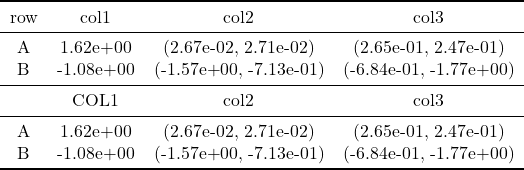
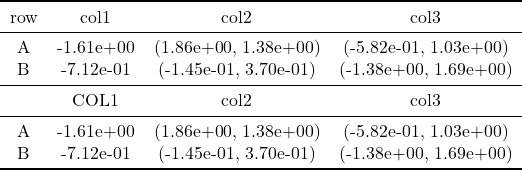
build based on b4de2d7

diff --git a/dev/index.html b/dev/index.html
@@ -1,2 +1,2 @@
 <!DOCTYPE html>
-<html lang="en"><head><meta charset="UTF-8"/><meta name="viewport" content="width=device-width, initial-scale=1.0"/><title>LaTeXTables.jl Documentation · LaTeXTables.jl Documentation</title><script data-outdated-warner src="assets/warner.js"></script><link href="https://cdnjs.cloudflare.com/ajax/libs/lato-font/3.0.0/css/lato-font.min.css" rel="stylesheet" type="text/css"/><link href="https://cdnjs.cloudflare.com/ajax/libs/juliamono/0.045/juliamono.min.css" rel="stylesheet" type="text/css"/><link href="https://cdnjs.cloudflare.com/ajax/libs/font-awesome/5.15.4/css/fontawesome.min.css" rel="stylesheet" type="text/css"/><link href="https://cdnjs.cloudflare.com/ajax/libs/font-awesome/5.15.4/css/solid.min.css" rel="stylesheet" type="text/css"/><link href="https://cdnjs.cloudflare.com/ajax/libs/font-awesome/5.15.4/css/brands.min.css" rel="stylesheet" type="text/css"/><link href="https://cdnjs.cloudflare.com/ajax/libs/KaTeX/0.13.24/katex.min.css" rel="stylesheet" type="text/css"/><script>documenterBaseURL="."</script><script src="https://cdnjs.cloudflare.com/ajax/libs/require.js/2.3.6/require.min.js" data-main="assets/documenter.js"></script><script src="siteinfo.js"></script><script src="../versions.js"></script><link class="docs-theme-link" rel="stylesheet" type="text/css" href="assets/themes/documenter-dark.css" data-theme-name="documenter-dark" data-theme-primary-dark/><link class="docs-theme-link" rel="stylesheet" type="text/css" href="assets/themes/documenter-light.css" data-theme-name="documenter-light" data-theme-primary/><script src="assets/themeswap.js"></script></head><body><div id="documenter"><nav class="docs-sidebar"><div class="docs-package-name"><span class="docs-autofit"><a href>LaTeXTables.jl Documentation</a></span></div><form class="docs-search" action="search/"><input class="docs-search-query" id="documenter-search-query" name="q" type="text" placeholder="Search docs"/></form><ul class="docs-menu"><li class="is-active"><a class="tocitem" href>LaTeXTables.jl Documentation</a><ul class="internal"><li><a class="tocitem" href="#Related-Packages"><span>Related Packages</span></a></li></ul></li><li><a class="tocitem" href="api/">API</a></li><li><a class="tocitem" href="example/">Examples</a></li></ul><div class="docs-version-selector field has-addons"><div class="control"><span class="docs-label button is-static is-size-7">Version</span></div><div class="docs-selector control is-expanded"><div class="select is-fullwidth is-size-7"><select id="documenter-version-selector"></select></div></div></div></nav><div class="docs-main"><header class="docs-navbar"><nav class="breadcrumb"><ul class="is-hidden-mobile"><li class="is-active"><a href>LaTeXTables.jl Documentation</a></li></ul><ul class="is-hidden-tablet"><li class="is-active"><a href>LaTeXTables.jl Documentation</a></li></ul></nav><div class="docs-right"><a class="docs-edit-link" href="https://github.com/szcf-weiya/LaTeXTables.jl/blob/master/docs/src/index.md" title="Edit on GitHub"><span class="docs-icon fab"></span><span class="docs-label is-hidden-touch">Edit on GitHub</span></a><a class="docs-settings-button fas fa-cog" id="documenter-settings-button" href="#" title="Settings"></a><a class="docs-sidebar-button fa fa-bars is-hidden-desktop" id="documenter-sidebar-button" href="#"></a></div></header><article class="content" id="documenter-page"><h1 id="LaTeXTables.jl-Documentation"><a class="docs-heading-anchor" href="#LaTeXTables.jl-Documentation">LaTeXTables.jl Documentation</a><a id="LaTeXTables.jl-Documentation-1"></a><a class="docs-heading-anchor-permalink" href="#LaTeXTables.jl-Documentation" title="Permalink"></a></h1><p>LaTeXTables.jl is a Julia package that coverts (complex) tables into LaTeX code.</p><h2 id="Related-Packages"><a class="docs-heading-anchor" href="#Related-Packages">Related Packages</a><a id="Related-Packages-1"></a><a class="docs-heading-anchor-permalink" href="#Related-Packages" title="Permalink"></a></h2><ul><li><a href="https://github.com/scheinerman/LatexPrint.jl">https://github.com/scheinerman/LatexPrint.jl</a>: only support basic data structure, such as 1d or 2d arrays</li><li><a href="https://github.com/ronisbr/PrettyTables.jl">https://github.com/ronisbr/PrettyTables.jl</a>: only support simple tables, i.e., one level row and one level column</li></ul></article><nav class="docs-footer"><a class="docs-footer-nextpage" href="api/">API »</a><div class="flexbox-break"></div><p class="footer-message">Powered by <a href="https://github.com/JuliaDocs/Documenter.jl">Documenter.jl</a> and the <a href="https://julialang.org/">Julia Programming Language</a>.</p></nav></div><div class="modal" id="documenter-settings"><div class="modal-background"></div><div class="modal-card"><header class="modal-card-head"><p class="modal-card-title">Settings</p><button class="delete"></button></header><section class="modal-card-body"><p><label class="label">Theme</label><div class="select"><select id="documenter-themepicker"><option value="documenter-light">documenter-light</option><option value="documenter-dark">documenter-dark</option></select></div></p><hr/><p>This document was generated with <a href="https://github.com/JuliaDocs/Documenter.jl">Documenter.jl</a> version 0.27.23 on <span class="colophon-date" title="Tuesday 15 November 2022 17:33">Tuesday 15 November 2022</span>. Using Julia version 1.7.3.</p></section><footer class="modal-card-foot"></footer></div></div></div></body></html>
+<html lang="en"><head><meta charset="UTF-8"/><meta name="viewport" content="width=device-width, initial-scale=1.0"/><title>LaTeXTables.jl Documentation · LaTeXTables.jl Documentation</title><script data-outdated-warner src="assets/warner.js"></script><link href="https://cdnjs.cloudflare.com/ajax/libs/lato-font/3.0.0/css/lato-font.min.css" rel="stylesheet" type="text/css"/><link href="https://cdnjs.cloudflare.com/ajax/libs/juliamono/0.045/juliamono.min.css" rel="stylesheet" type="text/css"/><link href="https://cdnjs.cloudflare.com/ajax/libs/font-awesome/5.15.4/css/fontawesome.min.css" rel="stylesheet" type="text/css"/><link href="https://cdnjs.cloudflare.com/ajax/libs/font-awesome/5.15.4/css/solid.min.css" rel="stylesheet" type="text/css"/><link href="https://cdnjs.cloudflare.com/ajax/libs/font-awesome/5.15.4/css/brands.min.css" rel="stylesheet" type="text/css"/><link href="https://cdnjs.cloudflare.com/ajax/libs/KaTeX/0.13.24/katex.min.css" rel="stylesheet" type="text/css"/><script>documenterBaseURL="."</script><script src="https://cdnjs.cloudflare.com/ajax/libs/require.js/2.3.6/require.min.js" data-main="assets/documenter.js"></script><script src="siteinfo.js"></script><script src="../versions.js"></script><link class="docs-theme-link" rel="stylesheet" type="text/css" href="assets/themes/documenter-dark.css" data-theme-name="documenter-dark" data-theme-primary-dark/><link class="docs-theme-link" rel="stylesheet" type="text/css" href="assets/themes/documenter-light.css" data-theme-name="documenter-light" data-theme-primary/><script src="assets/themeswap.js"></script></head><body><div id="documenter"><nav class="docs-sidebar"><div class="docs-package-name"><span class="docs-autofit"><a href>LaTeXTables.jl Documentation</a></span></div><form class="docs-search" action="search/"><input class="docs-search-query" id="documenter-search-query" name="q" type="text" placeholder="Search docs"/></form><ul class="docs-menu"><li class="is-active"><a class="tocitem" href>LaTeXTables.jl Documentation</a><ul class="internal"><li><a class="tocitem" href="#Related-Packages"><span>Related Packages</span></a></li></ul></li><li><a class="tocitem" href="api/">API</a></li><li><a class="tocitem" href="example/">Examples</a></li></ul><div class="docs-version-selector field has-addons"><div class="control"><span class="docs-label button is-static is-size-7">Version</span></div><div class="docs-selector control is-expanded"><div class="select is-fullwidth is-size-7"><select id="documenter-version-selector"></select></div></div></div></nav><div class="docs-main"><header class="docs-navbar"><nav class="breadcrumb"><ul class="is-hidden-mobile"><li class="is-active"><a href>LaTeXTables.jl Documentation</a></li></ul><ul class="is-hidden-tablet"><li class="is-active"><a href>LaTeXTables.jl Documentation</a></li></ul></nav><div class="docs-right"><a class="docs-edit-link" href="https://github.com/szcf-weiya/LaTeXTables.jl/blob/master/docs/src/index.md" title="Edit on GitHub"><span class="docs-icon fab"></span><span class="docs-label is-hidden-touch">Edit on GitHub</span></a><a class="docs-settings-button fas fa-cog" id="documenter-settings-button" href="#" title="Settings"></a><a class="docs-sidebar-button fa fa-bars is-hidden-desktop" id="documenter-sidebar-button" href="#"></a></div></header><article class="content" id="documenter-page"><h1 id="LaTeXTables.jl-Documentation"><a class="docs-heading-anchor" href="#LaTeXTables.jl-Documentation">LaTeXTables.jl Documentation</a><a id="LaTeXTables.jl-Documentation-1"></a><a class="docs-heading-anchor-permalink" href="#LaTeXTables.jl-Documentation" title="Permalink"></a></h1><p>LaTeXTables.jl is a Julia package that coverts (complex) tables into LaTeX code.</p><h2 id="Related-Packages"><a class="docs-heading-anchor" href="#Related-Packages">Related Packages</a><a id="Related-Packages-1"></a><a class="docs-heading-anchor-permalink" href="#Related-Packages" title="Permalink"></a></h2><ul><li><a href="https://github.com/scheinerman/LatexPrint.jl">https://github.com/scheinerman/LatexPrint.jl</a>: only support basic data structure, such as 1d or 2d arrays</li><li><a href="https://github.com/ronisbr/PrettyTables.jl">https://github.com/ronisbr/PrettyTables.jl</a>: only support simple tables, i.e., one level row and one level column</li></ul></article><nav class="docs-footer"><a class="docs-footer-nextpage" href="api/">API »</a><div class="flexbox-break"></div><p class="footer-message">Powered by <a href="https://github.com/JuliaDocs/Documenter.jl">Documenter.jl</a> and the <a href="https://julialang.org/">Julia Programming Language</a>.</p></nav></div><div class="modal" id="documenter-settings"><div class="modal-background"></div><div class="modal-card"><header class="modal-card-head"><p class="modal-card-title">Settings</p><button class="delete"></button></header><section class="modal-card-body"><p><label class="label">Theme</label><div class="select"><select id="documenter-themepicker"><option value="documenter-light">documenter-light</option><option value="documenter-dark">documenter-dark</option></select></div></p><hr/><p>This document was generated with <a href="https://github.com/JuliaDocs/Documenter.jl">Documenter.jl</a> version 0.27.23 on <span class="colophon-date" title="Thursday 17 November 2022 04:38">Thursday 17 November 2022</span>. Using Julia version 1.7.3.</p></section><footer class="modal-card-foot"></footer></div></div></div></body></html>

diff --git a/dev/search/index.html b/dev/search/index.html
@@ -1,2 +1,2 @@
 <!DOCTYPE html>
-<html lang="en"><head><meta charset="UTF-8"/><meta name="viewport" content="width=device-width, initial-scale=1.0"/><title>Search · LaTeXTables.jl Documentation</title><script data-outdated-warner src="../assets/warner.js"></script><link href="https://cdnjs.cloudflare.com/ajax/libs/lato-font/3.0.0/css/lato-font.min.css" rel="stylesheet" type="text/css"/><link href="https://cdnjs.cloudflare.com/ajax/libs/juliamono/0.045/juliamono.min.css" rel="stylesheet" type="text/css"/><link href="https://cdnjs.cloudflare.com/ajax/libs/font-awesome/5.15.4/css/fontawesome.min.css" rel="stylesheet" type="text/css"/><link href="https://cdnjs.cloudflare.com/ajax/libs/font-awesome/5.15.4/css/solid.min.css" rel="stylesheet" type="text/css"/><link href="https://cdnjs.cloudflare.com/ajax/libs/font-awesome/5.15.4/css/brands.min.css" rel="stylesheet" type="text/css"/><link href="https://cdnjs.cloudflare.com/ajax/libs/KaTeX/0.13.24/katex.min.css" rel="stylesheet" type="text/css"/><script>documenterBaseURL=".."</script><script src="https://cdnjs.cloudflare.com/ajax/libs/require.js/2.3.6/require.min.js" data-main="../assets/documenter.js"></script><script src="../siteinfo.js"></script><script src="../../versions.js"></script><link class="docs-theme-link" rel="stylesheet" type="text/css" href="../assets/themes/documenter-dark.css" data-theme-name="documenter-dark" data-theme-primary-dark/><link class="docs-theme-link" rel="stylesheet" type="text/css" href="../assets/themes/documenter-light.css" data-theme-name="documenter-light" data-theme-primary/><script src="../assets/themeswap.js"></script></head><body><div id="documenter"><nav class="docs-sidebar"><div class="docs-package-name"><span class="docs-autofit"><a href="../">LaTeXTables.jl Documentation</a></span></div><form class="docs-search" action><input class="docs-search-query" id="documenter-search-query" name="q" type="text" placeholder="Search docs"/></form><ul class="docs-menu"><li><a class="tocitem" href="../">LaTeXTables.jl Documentation</a></li><li><a class="tocitem" href="../api/">API</a></li><li><a class="tocitem" href="../example/">Examples</a></li></ul><div class="docs-version-selector field has-addons"><div class="control"><span class="docs-label button is-static is-size-7">Version</span></div><div class="docs-selector control is-expanded"><div class="select is-fullwidth is-size-7"><select id="documenter-version-selector"></select></div></div></div></nav><div class="docs-main"><header class="docs-navbar"><nav class="breadcrumb"><ul class="is-hidden-mobile"><li class="is-active"><a href>Search</a></li></ul><ul class="is-hidden-tablet"><li class="is-active"><a href>Search</a></li></ul></nav><div class="docs-right"><a class="docs-settings-button fas fa-cog" id="documenter-settings-button" href="#" title="Settings"></a><a class="docs-sidebar-button fa fa-bars is-hidden-desktop" id="documenter-sidebar-button" href="#"></a></div></header><article><p id="documenter-search-info">Loading search...</p><ul id="documenter-search-results"></ul></article><nav class="docs-footer"><p class="footer-message">Powered by <a href="https://github.com/JuliaDocs/Documenter.jl">Documenter.jl</a> and the <a href="https://julialang.org/">Julia Programming Language</a>.</p></nav></div><div class="modal" id="documenter-settings"><div class="modal-background"></div><div class="modal-card"><header class="modal-card-head"><p class="modal-card-title">Settings</p><button class="delete"></button></header><section class="modal-card-body"><p><label class="label">Theme</label><div class="select"><select id="documenter-themepicker"><option value="documenter-light">documenter-light</option><option value="documenter-dark">documenter-dark</option></select></div></p><hr/><p>This document was generated with <a href="https://github.com/JuliaDocs/Documenter.jl">Documenter.jl</a> version 0.27.23 on <span class="colophon-date" title="Tuesday 15 November 2022 17:33">Tuesday 15 November 2022</span>. Using Julia version 1.7.3.</p></section><footer class="modal-card-foot"></footer></div></div></div></body><script src="../search_index.js"></script><script src="../assets/search.js"></script></html>
+<html lang="en"><head><meta charset="UTF-8"/><meta name="viewport" content="width=device-width, initial-scale=1.0"/><title>Search · LaTeXTables.jl Documentation</title><script data-outdated-warner src="../assets/warner.js"></script><link href="https://cdnjs.cloudflare.com/ajax/libs/lato-font/3.0.0/css/lato-font.min.css" rel="stylesheet" type="text/css"/><link href="https://cdnjs.cloudflare.com/ajax/libs/juliamono/0.045/juliamono.min.css" rel="stylesheet" type="text/css"/><link href="https://cdnjs.cloudflare.com/ajax/libs/font-awesome/5.15.4/css/fontawesome.min.css" rel="stylesheet" type="text/css"/><link href="https://cdnjs.cloudflare.com/ajax/libs/font-awesome/5.15.4/css/solid.min.css" rel="stylesheet" type="text/css"/><link href="https://cdnjs.cloudflare.com/ajax/libs/font-awesome/5.15.4/css/brands.min.css" rel="stylesheet" type="text/css"/><link href="https://cdnjs.cloudflare.com/ajax/libs/KaTeX/0.13.24/katex.min.css" rel="stylesheet" type="text/css"/><script>documenterBaseURL=".."</script><script src="https://cdnjs.cloudflare.com/ajax/libs/require.js/2.3.6/require.min.js" data-main="../assets/documenter.js"></script><script src="../siteinfo.js"></script><script src="../../versions.js"></script><link class="docs-theme-link" rel="stylesheet" type="text/css" href="../assets/themes/documenter-dark.css" data-theme-name="documenter-dark" data-theme-primary-dark/><link class="docs-theme-link" rel="stylesheet" type="text/css" href="../assets/themes/documenter-light.css" data-theme-name="documenter-light" data-theme-primary/><script src="../assets/themeswap.js"></script></head><body><div id="documenter"><nav class="docs-sidebar"><div class="docs-package-name"><span class="docs-autofit"><a href="../">LaTeXTables.jl Documentation</a></span></div><form class="docs-search" action><input class="docs-search-query" id="documenter-search-query" name="q" type="text" placeholder="Search docs"/></form><ul class="docs-menu"><li><a class="tocitem" href="../">LaTeXTables.jl Documentation</a></li><li><a class="tocitem" href="../api/">API</a></li><li><a class="tocitem" href="../example/">Examples</a></li></ul><div class="docs-version-selector field has-addons"><div class="control"><span class="docs-label button is-static is-size-7">Version</span></div><div class="docs-selector control is-expanded"><div class="select is-fullwidth is-size-7"><select id="documenter-version-selector"></select></div></div></div></nav><div class="docs-main"><header class="docs-navbar"><nav class="breadcrumb"><ul class="is-hidden-mobile"><li class="is-active"><a href>Search</a></li></ul><ul class="is-hidden-tablet"><li class="is-active"><a href>Search</a></li></ul></nav><div class="docs-right"><a class="docs-settings-button fas fa-cog" id="documenter-settings-button" href="#" title="Settings"></a><a class="docs-sidebar-button fa fa-bars is-hidden-desktop" id="documenter-sidebar-button" href="#"></a></div></header><article><p id="documenter-search-info">Loading search...</p><ul id="documenter-search-results"></ul></article><nav class="docs-footer"><p class="footer-message">Powered by <a href="https://github.com/JuliaDocs/Documenter.jl">Documenter.jl</a> and the <a href="https://julialang.org/">Julia Programming Language</a>.</p></nav></div><div class="modal" id="documenter-settings"><div class="modal-background"></div><div class="modal-card"><header class="modal-card-head"><p class="modal-card-title">Settings</p><button class="delete"></button></header><section class="modal-card-body"><p><label class="label">Theme</label><div class="select"><select id="documenter-themepicker"><option value="documenter-light">documenter-light</option><option value="documenter-dark">documenter-dark</option></select></div></p><hr/><p>This document was generated with <a href="https://github.com/JuliaDocs/Documenter.jl">Documenter.jl</a> version 0.27.23 on <span class="colophon-date" title="Thursday 17 November 2022 04:38">Thursday 17 November 2022</span>. Using Julia version 1.7.3.</p></section><footer class="modal-card-foot"></footer></div></div></div></body><script src="../search_index.js"></script><script src="../assets/search.js"></script></html>

diff --git a/dev/api/index.html b/dev/api/index.html
@@ -13,4 +13,4 @@ julia&gt; print2tex(μ, σ, [&quot;A&quot;, &quot;B&quot;], [&quot;a&quot;, &quo
 noc = 0
 14
 
-julia&gt; tex2png(&quot;ex1.tex&quot;)</code></pre></div><a class="docs-sourcelink" target="_blank" href="https://github.com/szcf-weiya/LaTeXTables.jl/blob/43f1c92af5bedad8456866ead7d7b9ca06e3970a/src/tab2tex.jl#L7-L33">source</a></section></article><article class="docstring"><header><a class="docstring-binding" id="LaTeXTables.tex2png" href="#LaTeXTables.tex2png"><code>LaTeXTables.tex2png</code></a> — <span class="docstring-category">Function</span></header><section><div><pre><code class="language-julia hljs">tex2png()</code></pre><p>Render a latex table source file into an image via https://quicklatex.com/js/quicklatex.js</p></div><a class="docs-sourcelink" target="_blank" href="https://github.com/szcf-weiya/LaTeXTables.jl/blob/43f1c92af5bedad8456866ead7d7b9ca06e3970a/src/render.jl#L2-L6">source</a></section></article></article><nav class="docs-footer"><a class="docs-footer-prevpage" href="../">« LaTeXTables.jl Documentation</a><a class="docs-footer-nextpage" href="../example/">Examples »</a><div class="flexbox-break"></div><p class="footer-message">Powered by <a href="https://github.com/JuliaDocs/Documenter.jl">Documenter.jl</a> and the <a href="https://julialang.org/">Julia Programming Language</a>.</p></nav></div><div class="modal" id="documenter-settings"><div class="modal-background"></div><div class="modal-card"><header class="modal-card-head"><p class="modal-card-title">Settings</p><button class="delete"></button></header><section class="modal-card-body"><p><label class="label">Theme</label><div class="select"><select id="documenter-themepicker"><option value="documenter-light">documenter-light</option><option value="documenter-dark">documenter-dark</option></select></div></p><hr/><p>This document was generated with <a href="https://github.com/JuliaDocs/Documenter.jl">Documenter.jl</a> version 0.27.23 on <span class="colophon-date" title="Tuesday 15 November 2022 17:33">Tuesday 15 November 2022</span>. Using Julia version 1.7.3.</p></section><footer class="modal-card-foot"></footer></div></div></div></body></html>
+julia&gt; tex2png(&quot;ex1.tex&quot;)</code></pre></div><a class="docs-sourcelink" target="_blank" href="https://github.com/szcf-weiya/LaTeXTables.jl/blob/b4de2d76e5f653b8c2d5293a4df1a3e4f452dacc/src/tab2tex.jl#L7-L33">source</a></section></article><article class="docstring"><header><a class="docstring-binding" id="LaTeXTables.tex2png" href="#LaTeXTables.tex2png"><code>LaTeXTables.tex2png</code></a> — <span class="docstring-category">Function</span></header><section><div><pre><code class="language-julia hljs">tex2png()</code></pre><p>Render a latex table source file into an image via https://quicklatex.com/js/quicklatex.js</p></div><a class="docs-sourcelink" target="_blank" href="https://github.com/szcf-weiya/LaTeXTables.jl/blob/b4de2d76e5f653b8c2d5293a4df1a3e4f452dacc/src/render.jl#L2-L6">source</a></section></article></article><nav class="docs-footer"><a class="docs-footer-prevpage" href="../">« LaTeXTables.jl Documentation</a><a class="docs-footer-nextpage" href="../example/">Examples »</a><div class="flexbox-break"></div><p class="footer-message">Powered by <a href="https://github.com/JuliaDocs/Documenter.jl">Documenter.jl</a> and the <a href="https://julialang.org/">Julia Programming Language</a>.</p></nav></div><div class="modal" id="documenter-settings"><div class="modal-background"></div><div class="modal-card"><header class="modal-card-head"><p class="modal-card-title">Settings</p><button class="delete"></button></header><section class="modal-card-body"><p><label class="label">Theme</label><div class="select"><select id="documenter-themepicker"><option value="documenter-light">documenter-light</option><option value="documenter-dark">documenter-dark</option></select></div></p><hr/><p>This document was generated with <a href="https://github.com/JuliaDocs/Documenter.jl">Documenter.jl</a> version 0.27.23 on <span class="colophon-date" title="Thursday 17 November 2022 04:38">Thursday 17 November 2022</span>. Using Julia version 1.7.3.</p></section><footer class="modal-card-foot"></footer></div></div></div></body></html>

diff --git a/dev/example/index.html b/dev/example/index.html
@@ -29,4 +29,4 @@ others_σ = [rand(3, 1), rand(3, 1)]
 print2tex(μ, σ, [&quot;A&quot;, &quot;B&quot;], [&quot;a&quot;, &quot;b&quot;], [&quot;1&quot;,&quot;2&quot;,&quot;3&quot;], [&quot;x&quot;, &quot;y&quot;], file = &quot;ex2.tex&quot;, other_cols = others, other_col_names = [&quot;other&quot;], other_cols_σ = others_σ)
 tex2png(&quot;ex2.tex&quot;)</code></pre><pre class="documenter-example-output"><code class="nohighlight hljs ansi">&quot;ex2.png&quot;</code></pre><p><img src="../ex2.png" alt/></p><h3 id="Add-columns-on-the-right"><a class="docs-heading-anchor" href="#Add-columns-on-the-right">Add columns on the right</a><a id="Add-columns-on-the-right-1"></a><a class="docs-heading-anchor-permalink" href="#Add-columns-on-the-right" title="Permalink"></a></h3><pre><code class="language-julia hljs">right = [[rand(3), rand(3)]]
 print2tex(μ, σ, [&quot;A&quot;, &quot;B&quot;], [&quot;a&quot;, &quot;b&quot;], [&quot;1&quot;,&quot;2&quot;,&quot;3&quot;], [&quot;x&quot;, &quot;y&quot;], file = &quot;ex3.tex&quot;, other_cols = others, other_col_names = [&quot;other&quot;], other_cols_σ = others_σ, right_cols = right, right_col_names = [&quot;right&quot;])
-tex2png(&quot;ex3.tex&quot;)</code></pre><pre class="documenter-example-output"><code class="nohighlight hljs ansi">&quot;ex3.png&quot;</code></pre><p><img src="../ex3.png" alt/></p></article><nav class="docs-footer"><a class="docs-footer-prevpage" href="../api/">« API</a><div class="flexbox-break"></div><p class="footer-message">Powered by <a href="https://github.com/JuliaDocs/Documenter.jl">Documenter.jl</a> and the <a href="https://julialang.org/">Julia Programming Language</a>.</p></nav></div><div class="modal" id="documenter-settings"><div class="modal-background"></div><div class="modal-card"><header class="modal-card-head"><p class="modal-card-title">Settings</p><button class="delete"></button></header><section class="modal-card-body"><p><label class="label">Theme</label><div class="select"><select id="documenter-themepicker"><option value="documenter-light">documenter-light</option><option value="documenter-dark">documenter-dark</option></select></div></p><hr/><p>This document was generated with <a href="https://github.com/JuliaDocs/Documenter.jl">Documenter.jl</a> version 0.27.23 on <span class="colophon-date" title="Tuesday 15 November 2022 17:33">Tuesday 15 November 2022</span>. Using Julia version 1.7.3.</p></section><footer class="modal-card-foot"></footer></div></div></div></body></html>
+tex2png(&quot;ex3.tex&quot;)</code></pre><pre class="documenter-example-output"><code class="nohighlight hljs ansi">&quot;ex3.png&quot;</code></pre><p><img src="../ex3.png" alt/></p></article><nav class="docs-footer"><a class="docs-footer-prevpage" href="../api/">« API</a><div class="flexbox-break"></div><p class="footer-message">Powered by <a href="https://github.com/JuliaDocs/Documenter.jl">Documenter.jl</a> and the <a href="https://julialang.org/">Julia Programming Language</a>.</p></nav></div><div class="modal" id="documenter-settings"><div class="modal-background"></div><div class="modal-card"><header class="modal-card-head"><p class="modal-card-title">Settings</p><button class="delete"></button></header><section class="modal-card-body"><p><label class="label">Theme</label><div class="select"><select id="documenter-themepicker"><option value="documenter-light">documenter-light</option><option value="documenter-dark">documenter-dark</option></select></div></p><hr/><p>This document was generated with <a href="https://github.com/JuliaDocs/Documenter.jl">Documenter.jl</a> version 0.27.23 on <span class="colophon-date" title="Thursday 17 November 2022 04:38">Thursday 17 November 2022</span>. Using Julia version 1.7.3.</p></section><footer class="modal-card-foot"></footer></div></div></div></body></html>

diff --git a/dev/ex3.tex b/dev/ex3.tex
@@ -5,12 +5,12 @@
 \cmidrule(lr){6-7}
 &&&x&y&x&y\tabularnewline
 \midrule
-\multirow{3}{*}{A}&1& 6.45e-01 (7.7e-01)& 4.08e-01 (7.1e-01)& 6.41e-01 (3.8e-01)& 4.02e-02 (5.6e-01)& 4.11e-01 (3.5e-01)& 0.586187707951104\tabularnewline
-&2& 2.55e-01 (4.8e-01)& 6.82e-01 (3.8e-01)& 6.83e-01 (5.1e-01)& 6.32e-01 (8.1e-01)& 5.90e-01 (1.4e-01)& 0.6185049404387556\tabularnewline
-&3& 9.32e-01 (5.4e-01)& 5.53e-01 (9.0e-01)& 7.40e-01 (5.9e-01)& 1.10e-01 (1.0e-01)& 4.32e-02 (1.6e-01)& 0.48149487162694415\tabularnewline
+\multirow{3}{*}{A}&1& 7.41e-01 (6.9e-01)& 4.92e-01 (1.0e-01)& 2.89e-01 (3.7e-01)& 2.87e-01 (3.8e-01)& 6.65e-01 (1.5e-01)& 0.8433397566839962\tabularnewline
+&2& 5.05e-01 (3.9e-01)& 9.79e-01 (7.2e-01)& 1.82e-01 (6.6e-01)& 2.20e-01 (4.7e-01)& 6.13e-02 (6.0e-01)& 0.9751596237878961\tabularnewline
+&3& 3.56e-01 (9.9e-01)& 9.90e-01 (8.4e-02)& 3.79e-01 (9.8e-01)& 4.03e-01 (3.6e-01)& 7.98e-03 (1.9e-01)& 0.038202803378047934\tabularnewline
 \midrule
-\multirow{3}{*}{B}&1& 8.51e-01 (4.5e-01)& 3.61e-01 (2.5e-01)& 4.86e-01 (8.1e-01)& 2.21e-01 (8.1e-01)& 4.40e-01 (9.5e-01)& 0.9549234099874063\tabularnewline
-&2& 1.15e-01 (9.3e-01)& 8.28e-01 (3.0e-02)& 7.84e-01 (8.9e-01)& 9.44e-01 (6.3e-02)& 7.99e-02 (7.6e-01)& 0.9241573132654823\tabularnewline
-&3& 5.38e-01 (3.7e-01)& 8.69e-01 (8.2e-01)& 8.05e-01 (3.9e-01)& 3.26e-01 (3.0e-01)& 3.11e-02 (4.6e-01)& 0.04798621036278039\tabularnewline
+\multirow{3}{*}{B}&1& 9.87e-01 (3.9e-01)& 3.73e-02 (9.9e-01)& 6.66e-01 (3.3e-01)& 5.60e-01 (9.9e-01)& 8.04e-01 (2.5e-01)& 0.5459040915339662\tabularnewline
+&2& 5.78e-01 (5.0e-01)& 3.74e-02 (9.7e-01)& 1.37e-01 (1.0e-01)& 9.61e-01 (5.4e-01)& 4.94e-01 (8.4e-01)& 0.8388095063204334\tabularnewline
+&3& 8.01e-01 (9.5e-01)& 6.04e-01 (3.7e-01)& 3.81e-01 (9.9e-01)& 5.27e-01 (8.7e-01)& 5.19e-01 (6.3e-01)& 0.18375792809076952\tabularnewline
 \bottomrule
 \end{tabular}

diff --git a/dev/ex2.tex b/dev/ex2.tex
@@ -5,12 +5,12 @@
 \cmidrule(lr){6-7}
 &&&x&y&x&y\tabularnewline
 \midrule
-\multirow{3}{*}{A}&1& 6.45e-01 (7.7e-01)& 4.08e-01 (7.1e-01)& 6.41e-01 (3.8e-01)& 4.02e-02 (5.6e-01)& 4.11e-01 (3.5e-01)\tabularnewline
-&2& 2.55e-01 (4.8e-01)& 6.82e-01 (3.8e-01)& 6.83e-01 (5.1e-01)& 6.32e-01 (8.1e-01)& 5.90e-01 (1.4e-01)\tabularnewline
-&3& 9.32e-01 (5.4e-01)& 5.53e-01 (9.0e-01)& 7.40e-01 (5.9e-01)& 1.10e-01 (1.0e-01)& 4.32e-02 (1.6e-01)\tabularnewline
+\multirow{3}{*}{A}&1& 7.41e-01 (6.9e-01)& 4.92e-01 (1.0e-01)& 2.89e-01 (3.7e-01)& 2.87e-01 (3.8e-01)& 6.65e-01 (1.5e-01)\tabularnewline
+&2& 5.05e-01 (3.9e-01)& 9.79e-01 (7.2e-01)& 1.82e-01 (6.6e-01)& 2.20e-01 (4.7e-01)& 6.13e-02 (6.0e-01)\tabularnewline
+&3& 3.56e-01 (9.9e-01)& 9.90e-01 (8.4e-02)& 3.79e-01 (9.8e-01)& 4.03e-01 (3.6e-01)& 7.98e-03 (1.9e-01)\tabularnewline
 \midrule
-\multirow{3}{*}{B}&1& 8.51e-01 (4.5e-01)& 3.61e-01 (2.5e-01)& 4.86e-01 (8.1e-01)& 2.21e-01 (8.1e-01)& 4.40e-01 (9.5e-01)\tabularnewline
-&2& 1.15e-01 (9.3e-01)& 8.28e-01 (3.0e-02)& 7.84e-01 (8.9e-01)& 9.44e-01 (6.3e-02)& 7.99e-02 (7.6e-01)\tabularnewline
-&3& 5.38e-01 (3.7e-01)& 8.69e-01 (8.2e-01)& 8.05e-01 (3.9e-01)& 3.26e-01 (3.0e-01)& 3.11e-02 (4.6e-01)\tabularnewline
+\multirow{3}{*}{B}&1& 9.87e-01 (3.9e-01)& 3.73e-02 (9.9e-01)& 6.66e-01 (3.3e-01)& 5.60e-01 (9.9e-01)& 8.04e-01 (2.5e-01)\tabularnewline
+&2& 5.78e-01 (5.0e-01)& 3.74e-02 (9.7e-01)& 1.37e-01 (1.0e-01)& 9.61e-01 (5.4e-01)& 4.94e-01 (8.4e-01)\tabularnewline
+&3& 8.01e-01 (9.5e-01)& 6.04e-01 (3.7e-01)& 3.81e-01 (9.9e-01)& 5.27e-01 (8.7e-01)& 5.19e-01 (6.3e-01)\tabularnewline
 \bottomrule
 \end{tabular}

diff --git a/dev/ex1.tex b/dev/ex1.tex
@@ -5,12 +5,12 @@
 \cmidrule(lr){5-6}
 &&x&y&x&y\tabularnewline
 \midrule
-\multirow{3}{*}{A}&1& 4.08e-01 (7.1e-01)& 6.41e-01 (3.8e-01)& 4.02e-02 (5.6e-01)& 4.11e-01 (3.5e-01)\tabularnewline
-&2& 6.82e-01 (3.8e-01)& 6.83e-01 (5.1e-01)& 6.32e-01 (8.1e-01)& 5.90e-01 (1.4e-01)\tabularnewline
-&3& 5.53e-01 (9.0e-01)& 7.40e-01 (5.9e-01)& 1.10e-01 (1.0e-01)& 4.32e-02 (1.6e-01)\tabularnewline
+\multirow{3}{*}{A}&1& 4.92e-01 (1.0e-01)& 2.89e-01 (3.7e-01)& 2.87e-01 (3.8e-01)& 6.65e-01 (1.5e-01)\tabularnewline
+&2& 9.79e-01 (7.2e-01)& 1.82e-01 (6.6e-01)& 2.20e-01 (4.7e-01)& 6.13e-02 (6.0e-01)\tabularnewline
+&3& 9.90e-01 (8.4e-02)& 3.79e-01 (9.8e-01)& 4.03e-01 (3.6e-01)& 7.98e-03 (1.9e-01)\tabularnewline
 \midrule
-\multirow{3}{*}{B}&1& 3.61e-01 (2.5e-01)& 4.86e-01 (8.1e-01)& 2.21e-01 (8.1e-01)& 4.40e-01 (9.5e-01)\tabularnewline
-&2& 8.28e-01 (3.0e-02)& 7.84e-01 (8.9e-01)& 9.44e-01 (6.3e-02)& 7.99e-02 (7.6e-01)\tabularnewline
-&3& 8.69e-01 (8.2e-01)& 8.05e-01 (3.9e-01)& 3.26e-01 (3.0e-01)& 3.11e-02 (4.6e-01)\tabularnewline
+\multirow{3}{*}{B}&1& 3.73e-02 (9.9e-01)& 6.66e-01 (3.3e-01)& 5.60e-01 (9.9e-01)& 8.04e-01 (2.5e-01)\tabularnewline
+&2& 3.74e-02 (9.7e-01)& 1.37e-01 (1.0e-01)& 9.61e-01 (5.4e-01)& 4.94e-01 (8.4e-01)\tabularnewline
+&3& 6.04e-01 (3.7e-01)& 3.81e-01 (9.9e-01)& 5.27e-01 (8.7e-01)& 5.19e-01 (6.3e-01)\tabularnewline
 \bottomrule
 \end{tabular}

diff --git a/dev/row2col2.tex b/dev/row2col2.tex
@@ -6,10 +6,10 @@
 &&c1&c2&c3&c1&c2&c3\tabularnewline
 \midrule
 \midrule
-\multirow{2}{*}{r01}&r1&-8.68e-02& (2.17e+00, 3.65e-01)& (-4.91e-01, 6.12e-01)&-8.68e-02& (2.17e+00, 3.65e-01)& (-4.91e-01, 6.12e-01)\tabularnewline
-&r2&-6.53e-01& (4.44e-01, 6.76e-01)& (-2.42e-01, -5.04e-01)&-6.53e-01& (4.44e-01, 6.76e-01)& (-2.42e-01, -5.04e-01)\tabularnewline
+\multirow{2}{*}{r01}&r1&1.04e+00& (-1.74e+00, 2.80e-01)& (-1.57e-01, 1.20e+00)&1.04e+00& (-1.74e+00, 2.80e-01)& (-1.57e-01, 1.20e+00)\tabularnewline
+&r2&-1.12e+00& (-6.34e-01, 9.48e-01)& (-2.37e-01, 5.82e-01)&-1.12e+00& (-6.34e-01, 9.48e-01)& (-2.37e-01, 5.82e-01)\tabularnewline
 \midrule
-\multirow{2}{*}{r02}&r1&-8.68e-02& (2.17e+00, 3.65e-01)& (-4.91e-01, 6.12e-01)&-8.68e-02& (2.17e+00, 3.65e-01)& (-4.91e-01, 6.12e-01)\tabularnewline
-&r2&-6.53e-01& (4.44e-01, 6.76e-01)& (-2.42e-01, -5.04e-01)&-6.53e-01& (4.44e-01, 6.76e-01)& (-2.42e-01, -5.04e-01)\tabularnewline
+\multirow{2}{*}{r02}&r1&1.04e+00& (-1.74e+00, 2.80e-01)& (-1.57e-01, 1.20e+00)&1.04e+00& (-1.74e+00, 2.80e-01)& (-1.57e-01, 1.20e+00)\tabularnewline
+&r2&-1.12e+00& (-6.34e-01, 9.48e-01)& (-2.37e-01, 5.82e-01)&-1.12e+00& (-6.34e-01, 9.48e-01)& (-2.37e-01, 5.82e-01)\tabularnewline
 \bottomrule
 \end{tabular}

diff --git a/dev/ex02.tex b/dev/ex02.tex
@@ -2,12 +2,12 @@
 \toprule
 row&col1&col2&col3\tabularnewline
 \midrule
-A&1.62e+00& (2.67e-02, 2.71e-02)& (2.65e-01, 2.47e-01)\tabularnewline
-B&-1.08e+00& (-1.57e+00, -7.13e-01)& (-6.84e-01, -1.77e+00)\tabularnewline
+A&-1.61e+00& (1.86e+00, 1.38e+00)& (-5.82e-01, 1.03e+00)\tabularnewline
+B&-7.12e-01& (-1.45e-01, 3.70e-01)& (-1.38e+00, 1.69e+00)\tabularnewline
 \midrule
 &COL1&col2&col3\tabularnewline
 \midrule
-A&1.62e+00& (2.67e-02, 2.71e-02)& (2.65e-01, 2.47e-01)\tabularnewline
-B&-1.08e+00& (-1.57e+00, -7.13e-01)& (-6.84e-01, -1.77e+00)\tabularnewline
+A&-1.61e+00& (1.86e+00, 1.38e+00)& (-5.82e-01, 1.03e+00)\tabularnewline
+B&-7.12e-01& (-1.45e-01, 3.70e-01)& (-1.38e+00, 1.69e+00)\tabularnewline
 \bottomrule
 \end{tabular}

diff --git a/dev/col2.tex b/dev/col2.tex
@@ -5,7 +5,7 @@
 \cmidrule(lr){5-7}
 &c1&c2&c3&c1&c2&c3\tabularnewline
 \midrule
-r1&-2.28e-01& (-3.51e-01, -1.10e-02)& (-7.08e-01, -7.76e-01)&-2.28e-01& (-3.51e-01, -1.10e-02)& (-7.08e-01, -7.76e-01)\tabularnewline
-r2&-1.07e-01& (-3.03e-01, 2.27e-01)& (3.19e-02, -1.50e+00)&-1.07e-01& (-3.03e-01, 2.27e-01)& (3.19e-02, -1.50e+00)\tabularnewline
+r1&7.91e-01& (1.56e+00, 6.37e-01)& (1.06e+00, -1.57e-01)&7.91e-01& (1.56e+00, 6.37e-01)& (1.06e+00, -1.57e-01)\tabularnewline
+r2&-1.25e-01& (-4.41e-02, -2.04e-01)& (-9.17e-01, -6.38e-03)&-1.25e-01& (-4.41e-02, -2.04e-01)& (-9.17e-01, -6.38e-03)\tabularnewline
 \bottomrule
 \end{tabular}

diff --git a/dev/ex01.tex b/dev/ex01.tex
@@ -2,7 +2,7 @@
 \toprule
 row&col1&col2&col3\tabularnewline
 \midrule
-A&-2.77e-01& (1.05e+00, -1.54e+00)& (-6.93e-01, 5.48e-02)\tabularnewline
-B&-2.47e-01& (1.26e+00, 1.65e-01)& (9.34e-01, -2.36e-01)\tabularnewline
+A&-8.66e-01& (-1.50e-02, -1.25e-01)& (5.23e-01, 2.38e+00)\tabularnewline
+B&-5.62e-01& (1.06e+00, -3.78e-01)& (3.93e-01, 1.43e-01)\tabularnewline
 \bottomrule
 \end{tabular}

diff --git a/dev/ex0.tex b/dev/ex0.tex
@@ -2,7 +2,7 @@
 \toprule
 row&col1&col2&col3\tabularnewline
 \midrule
-A&9.58e-01&6.24e-01&5.24e-01\tabularnewline
-B&2.02e-01&7.91e-01&7.06e-01\tabularnewline
+A&1.78e-01&8.51e-01&2.60e-01\tabularnewline
+B&4.42e-01&5.52e-01&6.95e-01\tabularnewline
 \bottomrule
 \end{tabular}
